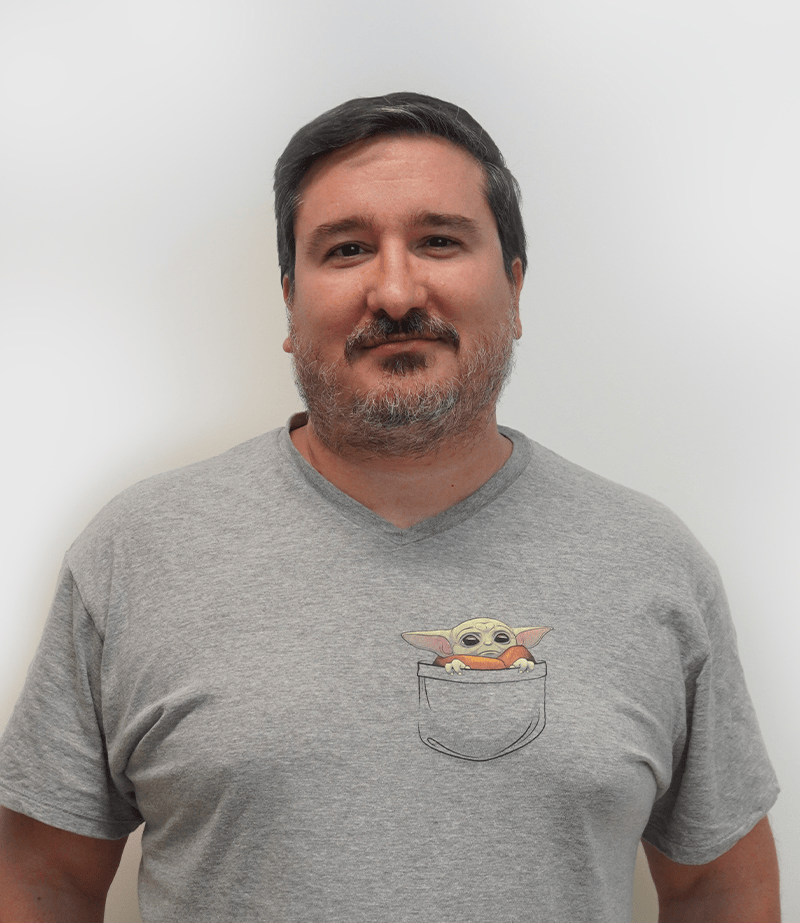
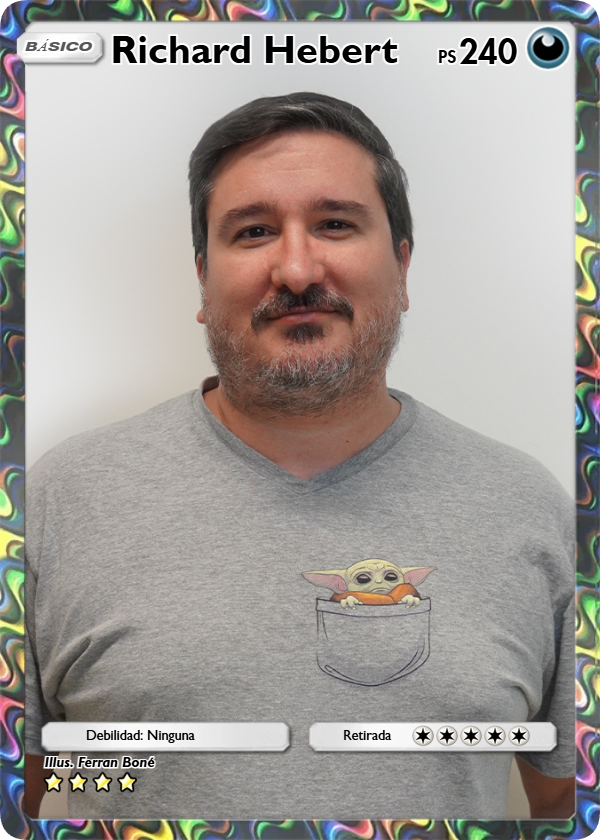
clase 26/11/25

diff --git a/html/gachenti/gachenti.css b/html/gachenti/gachenti.css
@@ -1,0 +1,12 @@
+  
+.card-img {
+ 	max-width: 180px;
+	height: auto;
+	border-radius: 6px;
+	display: block;
+}
+
+article {
+	margin-bottom: 1rem;
+}
+

diff --git a/html/gachenti/cards.php b/html/gachenti/cards.php
@@ -35,8 +35,14 @@ SELECT
     card_templates.description AS description,
     card_templates.image AS card_image,
     t.type AS card_type,
-    r.rarity AS card_rarity
+	r.rarity AS card_rarity,
+	user_cards.id_user AS user_id,
+	users.username AS user_name
 FROM cards
+LEFT JOIN user_cards
+	ON cards.id_card = user_cards.id_card
+LEFT JOIN users
+	ON user_cards.id_user = users.id_user 
 LEFT JOIN card_templates 
     ON cards.id_card_template = card_templates.id_card_template
 LEFT JOIN card_types t 
@@ -69,12 +75,15 @@ if (mysqli_num_rows($res) === 0) {
         $ctype    = htmlspecialchars((string)$row["card_type"]);
         $crarity  = htmlspecialchars((string)$row["card_rarity"]);
         $img      = htmlspecialchars((string)$row["card_image"]);
+		$user_id  = htmlspecialchars((string)$row["user_id"]);
+		$user_name= htmlspecialchars((string)$row["user_name"]);
 
         $cards_html .= "<li><article>
             <h3>{$name} (ID carta: {$id_card})</h3>
             <p><strong>Tipo:</strong> {$ctype} — <strong>Rareza:</strong> {$crarity}</p>
-            <p><strong>Precio:</strong> {$price} €</p>";
-
+            <p><strong>Precio:</strong> {$price} €</p>
+			<p><strong>Nombre de propietario:</strong> {$user_name} </p>
+			<p><strong>Id del propietario:</strong> {$user_id} </p>";
         if (!empty($img)) {
             $cards_html .= "
             <figure>
@@ -85,6 +94,15 @@ if (mysqli_num_rows($res) === 0) {
         if (!empty($desc)) {
             $cards_html .= "<p>{$desc}</p>";
         }
+
+$cards_html .= "
+    <form method=\"POST\" action=\"card_buy.php\">
+        <input type=\"hidden\" name=\"id_user\" value=\"{$user_id}\" />
+        <input type=\"hidden\" name=\"id_card\" value=\"{$id_card}\" />
+        <input type=\"submit\" value=\"Compra!!!!\"/>
+    </form>";
+
+
 
         $cards_html .= "</article></li>";
     }

diff --git a/html/gachenti/card_buy.php b/html/gachenti/card_buy.php
@@ -1,0 +1,64 @@
+<?php
+
+session_start();
+
+require("config.php");
+require("template.php");
+
+if(!isset($_SESSION["id_user"])) {
+
+	header("Location: index.php");
+	exit();
+
+}
+
+$buyer_id = $_SESSION["id_user"];
+
+$conn = mysqli_connect($server, $db_user, $db_pass, $db_db);
+
+if (!$conn) { 
+	die("ERROR DB: no se pudo conectar a la base de datos");
+}
+
+
+
+$seller_id = $_POST["id_user"];
+$sold_card = $_POST["id_card"];
+
+$query = "
+SELECT funds
+FROM users
+WHERE id_user = {$buyer_id}";
+
+$result = mysqli_query($conn, $query);
+
+$buyer = mysqli_fetch_assoc($result);
+$buyer_funds = $buyer["funds"];
+
+$query = "
+UPDATE users u
+JOIN cards c ON c.id_card = {$sold_card}
+SET u.funds = u.funds - c.price
+WHERE u.id_user = {$buyer_id};";
+
+
+$result = mysqli_query($conn, $query);
+
+$query = "
+UPDATE users u
+JOIN cards c ON c.id_card = {$sold_card}
+SET u.funds = u.funds +  c.price
+WHERE u.id_user = {$seller_id};";
+
+$result = mysqli_query($conn, $query);
+
+$query = "
+UPDATE user_cards u
+JOIN cards c ON c.id_card = {$sold_card}
+SET u.id_user = {$buyer_id}
+WHERE u.id_user = {$seller_id};";
+
+$result = mysqli_query($conn, $query);
+
+
+?>

diff --git a/html/gachenti/template.php b/html/gachenti/template.php
@@ -22,20 +22,9 @@ echo <<<EOD
 
     <meta charset="utf-8" />
     <title>{$title}</title>
+	
 
-    <style>
-
-        .card-img {
-            max-width: 180px;
-            height: auto;
-            border-radius: 6px;
-            display: block;
-        }
-
-        article {
-            margin-bottom: 1rem;
-        }
-    </style>
+	<link rel="stylesheet" href="gachenti.css" />
 
 </head>
 
